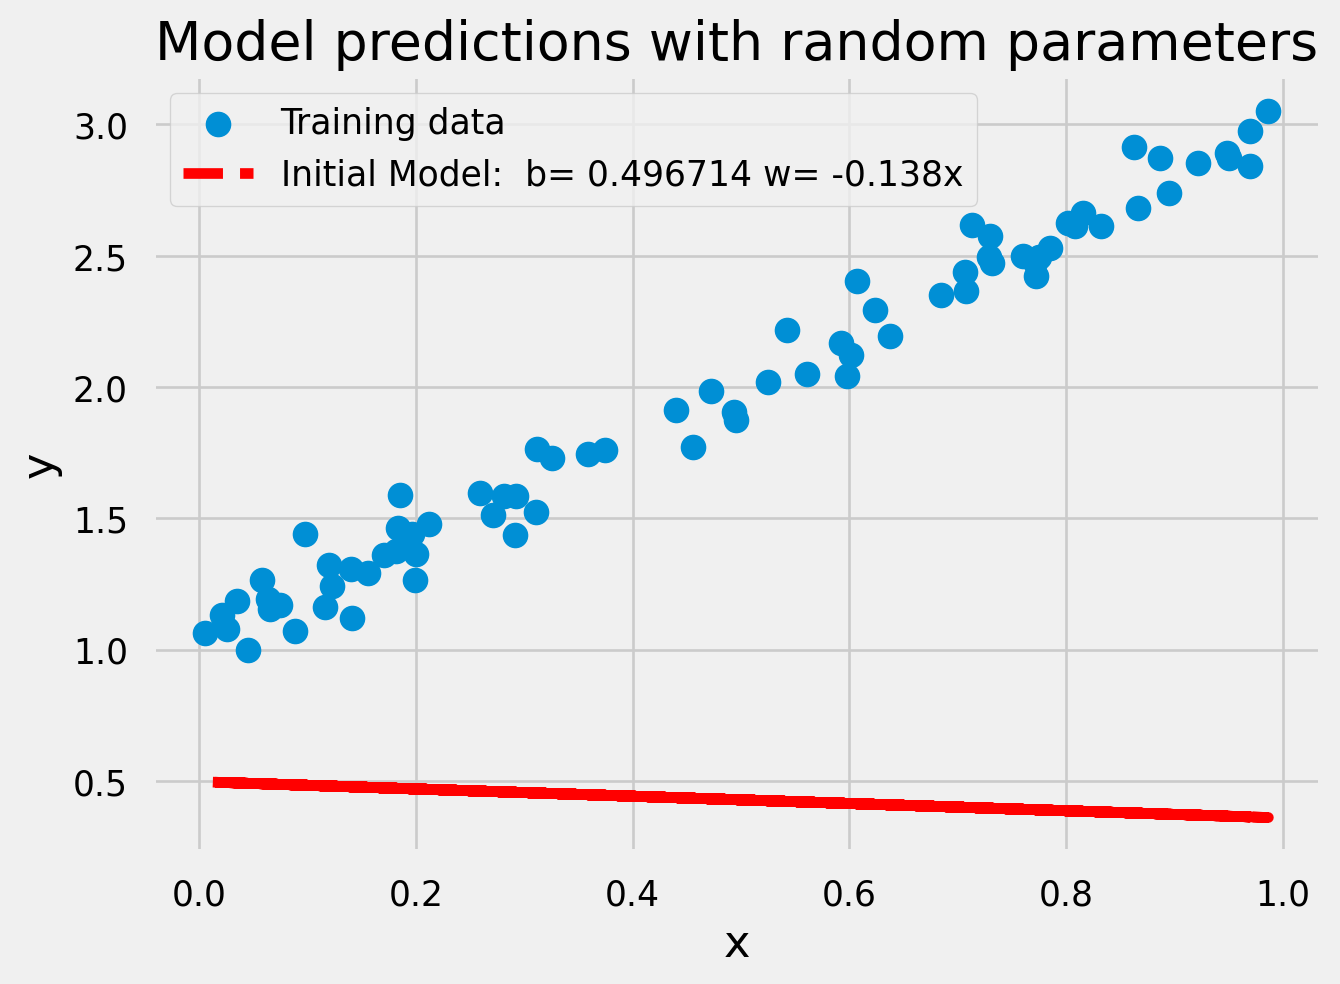
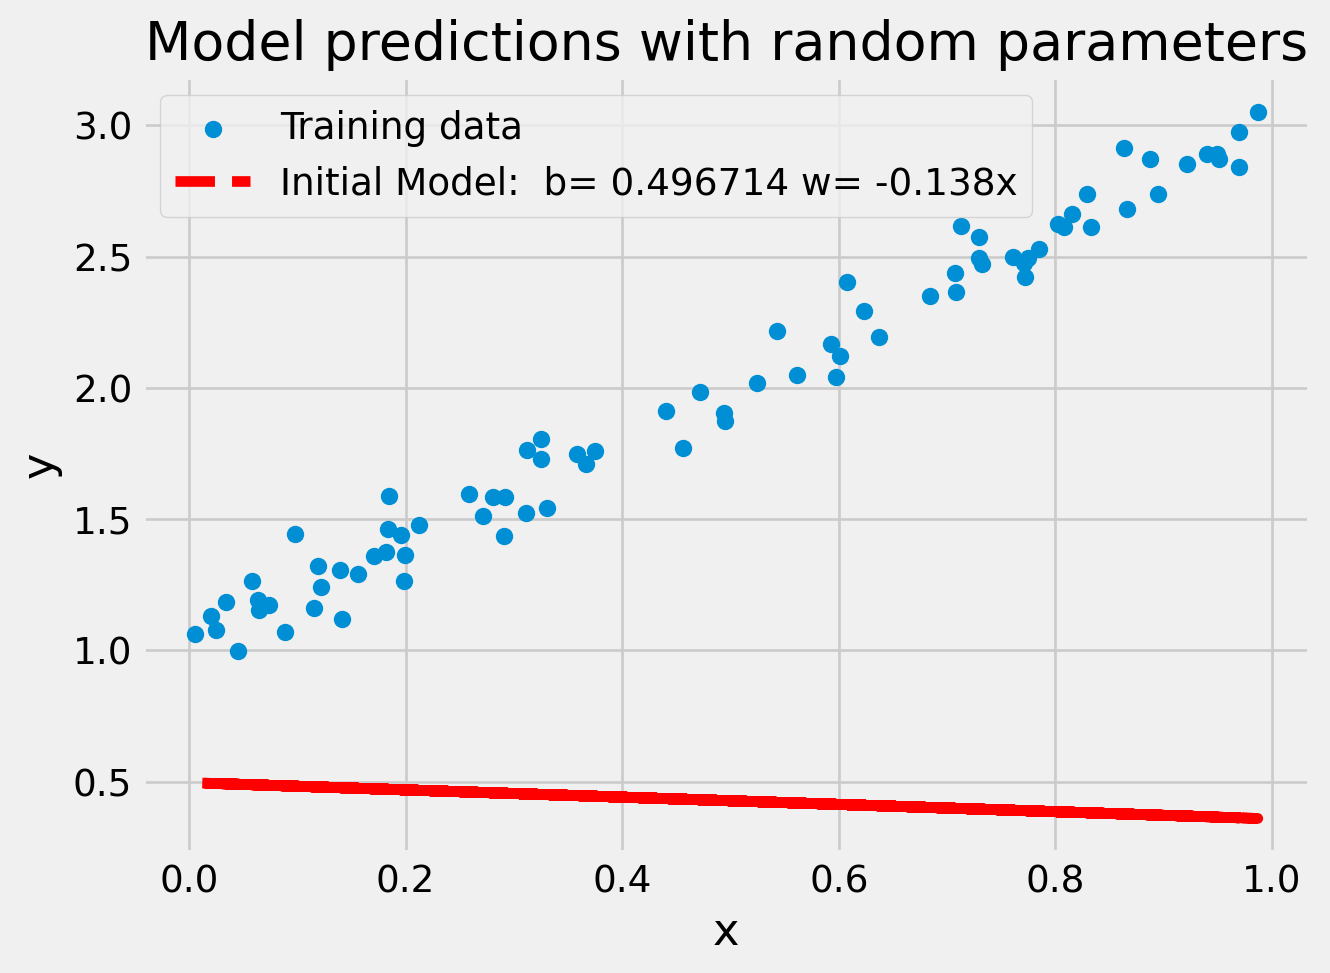
add callouts and more details about the linear model

diff --git a/gradient_descent.html b/gradient_descent.html
@@ -131,7 +131,7 @@ window.Quarto = {
 <p>Gradient descent is an iterative technique commonly used in machine learning to find the best possible set of parameters(coef) for a given model, data points, and loss function starting from an initial, and usually random, guess.</p>
 <p>To better understand the concept of gradient descent we will visualize the effects of different settings, telling the story to illustrate the concept to developing intuition.</p>
 <p>Loading packages or libraries.</p>
-<div id="569d81ba" class="cell" data-execution_count="1">
+<div id="beac105e" class="cell" data-execution_count="1">
 <div class="sourceCode cell-code" id="cb1"><pre class="sourceCode python code-with-copy"><code class="sourceCode python"><span id="cb1-1"><a href="#cb1-1" aria-hidden="true" tabindex="-1"></a><span class="im">import</span> numpy <span class="im">as</span> np</span>
 <span id="cb1-2"><a href="#cb1-2" aria-hidden="true" tabindex="-1"></a><span class="im">from</span> sklearn.linear_model <span class="im">import</span> LinearRegression</span>
 <span id="cb1-3"><a href="#cb1-3" aria-hidden="true" tabindex="-1"></a><span class="im">from</span> sklearn.preprocessing <span class="im">import</span> StandardScaler</span>
@@ -139,23 +139,67 @@ window.Quarto = {
 </div>
 <section id="define-the-model" class="level3">
 <h3 class="anchored" data-anchor-id="define-the-model">Define the model</h3>
-<p>In this model, we use a feature(x), and try to predict the value of a label(y) where:</p>
+<p>In this model, we use a feature or predictor(x), and try to predict the value of a label or outcome(y) where:</p>
 <ul>
 <li><p><strong>parameter b</strong>, the bias or intercept(<em>expected average value of y when x is zero</em>)</p></li>
 <li><p><strong>parameter w</strong>, the weight or slope(<em>how much y increases, on average, if we increase x by one unit</em>)</p></li>
-<li><p><strong>epsilon</strong>, the noise or error term.</p></li>
+<li><p><strong>epsilon</strong>, the noise or error term. Everything that affects the result but is not explained by the model. This could be random variation, external factors, measurement error, or any influence not explicitly included. <em>We can replace the “noise” with more intuitive expressions, such as “unpredictable variations”, “External influences”,“factors not considered”,” difference between expected and actual”, “errors or natural fluctuations”</em>.</p></li>
 </ul>
 <p><span class="math display">\[
 y = b + wx + \epsilon
 \]</span></p>
-<p>The same model in a less abstract way</p>
+<p>The same model in a less abstract way:</p>
+<p><strong>General:</strong> &gt; <code>Predicted Value = Baseline Value + (Effect of Predictor * Predictor Value) + Unexplained Variations</code></p>
+<p><strong>Human Resources:</strong> &gt; <code>Salary = Minimum Wage + (Increase per Year * Years of Experience) + Natural Fluctuations</code></p>
+<p><strong>Retail:</strong> &gt; <code>Total Sales = Baseline Sales + (Average Spend per Customer * Number of Customers) + Other Influences</code></p>
+<p><strong>Education:</strong> &gt; <code>Final Exam Score = Baseline Score + (Points per Study Hour * Hours Studied) + Individual Variations</code></p>
+<p><strong>Engineering:</strong> &gt; <code>Concrete Strength = Baseline Strength + (Strength Increase per Unit of Additive * Amount of Additive) + Environmental Factors</code>.</p>
+<div class="callout callout-style-default callout-tip callout-titled">
+<div class="callout-header d-flex align-content-center" data-bs-toggle="collapse" data-bs-target=".callout-1-contents" aria-controls="callout-1" aria-expanded="false" aria-label="Toggle callout">
+<div class="callout-icon-container">
+<i class="callout-icon"></i>
+</div>
+<div class="callout-title-container flex-fill">
+Click here for more details of that model
+</div>
+<div class="callout-btn-toggle d-inline-block border-0 py-1 ps-1 pe-0 float-end"><i class="callout-toggle"></i></div>
+</div>
+<div id="callout-1" class="callout-1-contents callout-collapse collapse">
+<div class="callout-body-container callout-body">
+<p><strong>1. Retail</strong> Let’s imagine we want to predict the total sales for a day based on the number of customers that walk into a store.</p>
+<ul>
+<li><strong>Formula</strong>: Total Sales = Baseline Sales + (Average Spend per Customer * Number of Customers) + Other Influences</li>
+<li><strong>y (Outcome)</strong>: Total Sales for the day.</li>
+<li><strong>b(Intercept)</strong>: Baseline Sales represents the expected sales from online orders or other sources, even if zero customers walk in.</li>
+<li><strong>w (Slope)</strong>: Average Spend per Customer is the average amount each customer spends.</li>
+<li><strong>x (Predictor)</strong>: Number of Customers who visited the store.</li>
+<li><strong>e (Noise)</strong>: Other Influences could be things like a local event, bad weather, or a competitor’s sale.</li>
+</ul>
+<p><strong>2. Education</strong> Here, we’ll try to predict a student’s final exam score based on the hours they spent studying.</p>
+<ul>
+<li><strong>Formula</strong>: Final Exam Score = Baseline Score + (Points per Study Hour * Hours Studied) + Individual Variations</li>
+<li><strong>y (Outcome)</strong>: The Final Exam Score.</li>
+<li><strong>b (Intercept)</strong>: Baseline Score is the score a student might get with zero hours of studying, based on their prior knowledge.</li>
+<li><strong>w (Slope)</strong>: Points per Study Hour is the average increase in the exam score for each additional hour of study.</li>
+<li><strong>x (Predictor)</strong>: The total Hours Studied.</li>
+<li><strong>e (Noise)</strong>: Individual Variations can include factors like quality of sleep, teacher effectiveness, or natural aptitude for the subject.</li>
+</ul>
+<p><strong>3. Engineering</strong> In civil engineering, let’s predict the strength of a concrete mix based on the amount of a specific additive used.</p>
+<ul>
+<li><strong>Formula</strong>: Concrete Strength = Baseline Strength + (Strength Increase per Unit of Additive * Amount of Additive) + Environmental Factors</li>
+<li><strong>y (Outcome)</strong>: The final Concrete Strength after it has cured.</li>
+<li><strong>b (Intercept)</strong>: Baseline Strength is the inherent strength of the concrete mix without any of the additive.</li>
+<li><strong>w (Slope)</strong>: Strength Increase per Unit of Additive is how much stronger the concrete gets for each kilogram of the additive used.</li>
+<li><strong>x (Predictor)</strong>: The Amount of Additive in the mix.</li>
+<li><strong>e (Noise)</strong>: Environmental Factors could be variations in temperature, humidity during curing, or slight inconsistencies in the raw materials.</li>
+</ul>
+</div>
+</div>
+</div>
 </section>
-</section>
-<section id="salary-minimum_wage-increase_per_year-years_experience-noise" class="level2">
-<h2 class="anchored" data-anchor-id="salary-minimum_wage-increase_per_year-years_experience-noise">&gt; salary = minimum_wage + increase_per_year * years_experience + noise</h2>
 <section id="generate-the-data" class="level3">
 <h3 class="anchored" data-anchor-id="generate-the-data">Generate the data</h3>
-<div id="4486b2c9" class="cell" data-execution_count="2">
+<div id="d022194f" class="cell" data-execution_count="2">
 <div class="sourceCode cell-code" id="cb2"><pre class="sourceCode python code-with-copy"><code class="sourceCode python"><span id="cb2-1"><a href="#cb2-1" aria-hidden="true" tabindex="-1"></a>true_b <span class="op">=</span> <span class="dv">1</span></span>
 <span id="cb2-2"><a href="#cb2-2" aria-hidden="true" tabindex="-1"></a>true_w <span class="op">=</span> <span class="dv">2</span></span>
 <span id="cb2-3"><a href="#cb2-3" aria-hidden="true" tabindex="-1"></a>N <span class="op">=</span> <span class="dv">100</span></span>
@@ -169,14 +213,14 @@ y = b + wx + \epsilon
 </section>
 <section id="separete-dataset-in-training-validation-and-test" class="level3">
 <h3 class="anchored" data-anchor-id="separete-dataset-in-training-validation-and-test">Separete dataset in training, validation and test</h3>
-<div id="d65de45d" class="cell" data-execution_count="3">
+<div id="61b0bcf6" class="cell" data-execution_count="3">
 <div class="sourceCode cell-code" id="cb3"><pre class="sourceCode python code-with-copy"><code class="sourceCode python"><span id="cb3-1"><a href="#cb3-1" aria-hidden="true" tabindex="-1"></a><span class="co"># shuffles the indices</span></span>
 <span id="cb3-2"><a href="#cb3-2" aria-hidden="true" tabindex="-1"></a>idx <span class="op">=</span> np.arange(N)</span>
 <span id="cb3-3"><a href="#cb3-3" aria-hidden="true" tabindex="-1"></a>np.random.shuffle(idx)</span>
 <span id="cb3-4"><a href="#cb3-4" aria-hidden="true" tabindex="-1"></a></span>
-<span id="cb3-5"><a href="#cb3-5" aria-hidden="true" tabindex="-1"></a><span class="co"># uses first 75 random indices for training</span></span>
-<span id="cb3-6"><a href="#cb3-6" aria-hidden="true" tabindex="-1"></a>train_idx <span class="op">=</span> idx[:<span class="bu">int</span>(<span class="fl">0.75</span> <span class="op">*</span> N)]</span>
-<span id="cb3-7"><a href="#cb3-7" aria-hidden="true" tabindex="-1"></a>validation_idx <span class="op">=</span> idx[<span class="bu">int</span>(<span class="fl">.75</span> <span class="op">*</span> N):]</span>
+<span id="cb3-5"><a href="#cb3-5" aria-hidden="true" tabindex="-1"></a><span class="co"># uses first 80 random indices for training</span></span>
+<span id="cb3-6"><a href="#cb3-6" aria-hidden="true" tabindex="-1"></a>train_idx <span class="op">=</span> idx[:<span class="bu">int</span>(<span class="fl">0.8</span> <span class="op">*</span> N)]</span>
+<span id="cb3-7"><a href="#cb3-7" aria-hidden="true" tabindex="-1"></a>validation_idx <span class="op">=</span> idx[<span class="bu">int</span>(<span class="fl">.8</span> <span class="op">*</span> N):]</span>
 <span id="cb3-8"><a href="#cb3-8" aria-hidden="true" tabindex="-1"></a></span>
 <span id="cb3-9"><a href="#cb3-9" aria-hidden="true" tabindex="-1"></a><span class="co"># Generates train and valiation sets</span></span>
 <span id="cb3-10"><a href="#cb3-10" aria-hidden="true" tabindex="-1"></a>x_train, y_train <span class="op">=</span> x[train_idx], y[train_idx]</span>
@@ -185,7 +229,7 @@ y = b + wx + \epsilon
 </section>
 <section id="visualize-the-data-for-training-and-validation" class="level3">
 <h3 class="anchored" data-anchor-id="visualize-the-data-for-training-and-validation">Visualize the data for training and validation</h3>
-<div id="49aff3fc" class="cell" data-execution_count="4">
+<div id="5706b0ea" class="cell" data-execution_count="4">
 <div class="sourceCode cell-code" id="cb4"><pre class="sourceCode python code-with-copy"><code class="sourceCode python"><span id="cb4-1"><a href="#cb4-1" aria-hidden="true" tabindex="-1"></a>plt.clf</span>
 <span id="cb4-2"><a href="#cb4-2" aria-hidden="true" tabindex="-1"></a>fig, axs <span class="op">=</span> plt.subplots(<span class="dv">1</span>,<span class="dv">2</span>, figsize <span class="op">=</span>(<span class="fl">7.5</span>,<span class="dv">4</span>))</span>
 <span id="cb4-3"><a href="#cb4-3" aria-hidden="true" tabindex="-1"></a>axs[<span class="dv">0</span>].scatter(x_train, y_train, color <span class="op">=</span><span class="st">'blue'</span>, label<span class="op">=</span>  <span class="st">"Traininig data"</span>)</span>
@@ -203,7 +247,7 @@ y = b + wx + \epsilon
 <div class="cell-output cell-output-display">
 <div>
 <figure class="figure">
-<p><img src="gradient_descent_files/figure-html/cell-5-output-1.png" width="728" height="415" class="figure-img"></p>
+<p><img src="gradient_descent_files/figure-html/cell-5-output-1.png" width="724" height="409" class="figure-img"></p>
 </figure>
 </div>
 </div>
@@ -211,7 +255,7 @@ y = b + wx + \epsilon
 </section>
 <section id="for-training-the-model-we-need-to-randomly-initialize-the-parametersweights." class="level3">
 <h3 class="anchored" data-anchor-id="for-training-the-model-we-need-to-randomly-initialize-the-parametersweights.">For training the model, we need to randomly initialize the parameters/weights.</h3>
-<div id="0fe0a03a" class="cell" data-execution_count="5">
+<div id="ae2cdaf6" class="cell" data-execution_count="5">
 <div class="sourceCode cell-code" id="cb5"><pre class="sourceCode python code-with-copy"><code class="sourceCode python"><span id="cb5-1"><a href="#cb5-1" aria-hidden="true" tabindex="-1"></a>np.random.seed(<span class="dv">42</span>)</span>
 <span id="cb5-2"><a href="#cb5-2" aria-hidden="true" tabindex="-1"></a>b <span class="op">=</span> np.random.randn(<span class="dv">1</span>)</span>
 <span id="cb5-3"><a href="#cb5-3" aria-hidden="true" tabindex="-1"></a>w <span class="op">=</span> np.random.randn(<span class="dv">1</span>)</span>
@@ -224,13 +268,13 @@ y = b + wx + \epsilon
 </section>
 <section id="basic-parameter-values-and-predictions" class="level3">
 <h3 class="anchored" data-anchor-id="basic-parameter-values-and-predictions">Basic parameter values and predictions</h3>
-<div id="c808b46e" class="cell" data-execution_count="6">
+<div id="81a1b43f" class="cell" data-execution_count="6">
 <div class="sourceCode cell-code" id="cb7"><pre class="sourceCode python code-with-copy"><code class="sourceCode python"><span id="cb7-1"><a href="#cb7-1" aria-hidden="true" tabindex="-1"></a>yhat <span class="op">=</span> b <span class="op">+</span> w <span class="op">*</span> x_train</span></code><button title="Copy to Clipboard" class="code-copy-button"><i class="bi"></i></button></pre></div>
 </div>
 </section>
 <section id="visualize-the-predictions" class="level3">
 <h3 class="anchored" data-anchor-id="visualize-the-predictions">Visualize the predictions</h3>
-<div id="190f0142" class="cell" data-execution_count="7">
+<div id="054c6a17" class="cell" data-execution_count="7">
 <div class="sourceCode cell-code" id="cb8"><pre class="sourceCode python code-with-copy"><code class="sourceCode python"><span id="cb8-1"><a href="#cb8-1" aria-hidden="true" tabindex="-1"></a>plt.clf()</span>
 <span id="cb8-2"><a href="#cb8-2" aria-hidden="true" tabindex="-1"></a>plt.style.use(<span class="st">'fivethirtyeight'</span>)</span>
 <span id="cb8-3"><a href="#cb8-3" aria-hidden="true" tabindex="-1"></a>plt.scatter(x_train, y_train, label <span class="op">=</span> <span class="st">"Training data"</span>)</span>
@@ -242,7 +286,7 @@ y = b + wx + \epsilon
 <div class="cell-output cell-output-display">
 <div>
 <figure class="figure">
-<p><img src="gradient_descent_files/figure-html/cell-8-output-1.png" width="670" height="492" class="figure-img"></p>
+<p><img src="gradient_descent_files/figure-html/cell-8-output-1.png" width="665" height="487" class="figure-img"></p>
 </figure>
 </div>
 </div>
@@ -252,15 +296,42 @@ y = b + wx + \epsilon
 <h3 class="anchored" data-anchor-id="compute-the-loss">Compute the Loss</h3>
 <p>The loss is some sort of aggregation of the difference between the predictions and the actual values. Aggregation of errors for a set of data points.</p>
 <p>For a regression problem the loss is given by the mean squared error (MSE).</p>
-<div id="593fa9b6" class="cell" data-execution_count="8">
-<div class="sourceCode cell-code" id="cb9"><pre class="sourceCode python code-with-copy"><code class="sourceCode python"><span id="cb9-1"><a href="#cb9-1" aria-hidden="true" tabindex="-1"></a>error <span class="op">=</span> (yhat <span class="op">-</span> y_train)</span>
-<span id="cb9-2"><a href="#cb9-2" aria-hidden="true" tabindex="-1"></a></span>
-<span id="cb9-3"><a href="#cb9-3" aria-hidden="true" tabindex="-1"></a>loss <span class="op">=</span> (error <span class="op">**</span> <span class="dv">2</span>).mean()</span>
-<span id="cb9-4"><a href="#cb9-4" aria-hidden="true" tabindex="-1"></a><span class="bu">print</span>(loss)</span></code><button title="Copy to Clipboard" class="code-copy-button"><i class="bi"></i></button></pre></div>
+<div id="a3f0f455" class="cell" data-execution_count="8">
+<div class="sourceCode cell-code" id="cb9"><pre class="sourceCode python code-with-copy"><code class="sourceCode python"><span id="cb9-1"><a href="#cb9-1" aria-hidden="true" tabindex="-1"></a><span class="co"># all data points or batch gradient descent</span></span>
+<span id="cb9-2"><a href="#cb9-2" aria-hidden="true" tabindex="-1"></a>error <span class="op">=</span> (yhat <span class="op">-</span> y_train)</span>
+<span id="cb9-3"><a href="#cb9-3" aria-hidden="true" tabindex="-1"></a></span>
+<span id="cb9-4"><a href="#cb9-4" aria-hidden="true" tabindex="-1"></a><span class="co"># MSE loss</span></span>
+<span id="cb9-5"><a href="#cb9-5" aria-hidden="true" tabindex="-1"></a>loss <span class="op">=</span> (error <span class="op">**</span> <span class="dv">2</span>).mean()</span>
+<span id="cb9-6"><a href="#cb9-6" aria-hidden="true" tabindex="-1"></a><span class="bu">print</span>(loss)</span></code><button title="Copy to Clipboard" class="code-copy-button"><i class="bi"></i></button></pre></div>
 <div class="cell-output cell-output-stdout">
-<pre><code>2.7044901487908586</code></pre>
+<pre><code>2.7421577700550976</code></pre>
 </div>
 </div>
+</section>
+<section id="compute-the-gradients" class="level3">
+<h3 class="anchored" data-anchor-id="compute-the-gradients">Compute the gradients</h3>
+<p>In deep learning, a gradient tells us how much a change in one parameter like a weight or bias in a neural networks will affect the output or loss. How much the loss changes if one parameter changes a little bit.</p>
+<p>Gradient is a partial derivative. Why?</p>
+<p>Imagine you have a recipe for a cake, and it has several ingredients such as flour, sugar, eggs, etc. Now, suppose you want to know how changing just the amount of sugar affects the taste of the cake. You keep everything else the same and only vary the sugar. That’s like taking a partial derivative, you are looking at the effect of one variable at a time, not all of them together.</p>
+<section id="gradient-of-the-intercept-b" class="level4">
+<h4 class="anchored" data-anchor-id="gradient-of-the-intercept-b">Gradient of the Intercept (<code>b</code>)</h4>
+<ul>
+<li><p>The gradient for the intercept <code>b</code> tells us how a small change in <code>b</code> affects the overall loss.</p></li>
+<li><p>The gradient for the weight <code>w</code> is similar, but with one cricial difference. It’s also influenced by the input value <code>x</code>. The weight <code>w</code> is the slope. its effect on the prediction is directly proportional to the input <code>x</code>. A change in <code>w</code> will have a much larger impact on the prediction when <code>x</code> is 100 than when <code>x</code> is 1. Therefore, data points with large <code>x</code> values should have a proportionally larger say in how we adjust <code>w</code>. Multiplying the error by <code>x_train</code> ensures that the adjustment to <code>w</code> is proportional to the input that produced the error.</p></li>
+</ul>
+<blockquote class="blockquote">
+<p>2* The 2 comes from the derivative of the squared error term(from the mean squared error formula). When you use calculus to find the rate of change, the exponent 2 comes down as a multiplier.</p>
+</blockquote>
+<div id="825adf8d" class="cell" data-execution_count="9">
+<div class="sourceCode cell-code" id="cb11"><pre class="sourceCode python code-with-copy"><code class="sourceCode python"><span id="cb11-1"><a href="#cb11-1" aria-hidden="true" tabindex="-1"></a><span class="co"># step3 computes gradients for both b and w parameters</span></span>
+<span id="cb11-2"><a href="#cb11-2" aria-hidden="true" tabindex="-1"></a>b_grad <span class="op">=</span> <span class="dv">2</span> <span class="op">*</span> error.mean()</span>
+<span id="cb11-3"><a href="#cb11-3" aria-hidden="true" tabindex="-1"></a>w_grad <span class="op">=</span> <span class="dv">2</span> <span class="op">*</span> (x_train <span class="op">*</span> error).mean()</span>
+<span id="cb11-4"><a href="#cb11-4" aria-hidden="true" tabindex="-1"></a><span class="bu">print</span>(b_grad, w_grad)</span></code><button title="Copy to Clipboard" class="code-copy-button"><i class="bi"></i></button></pre></div>
+<div class="cell-output cell-output-stdout">
+<pre><code>-3.044811379650508 -1.8337537171510832</code></pre>
+</div>
+</div>
+</section>
 </section>
 </section>
 
